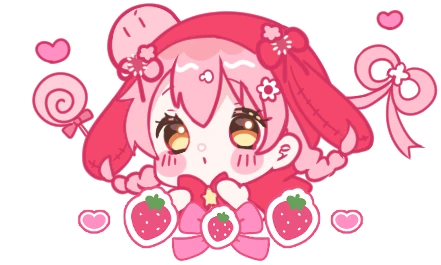
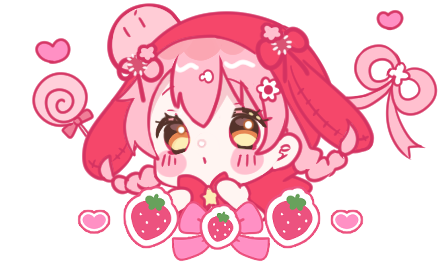
Add files via upload

diff --git a/index.html b/index.html
@@ -11,6 +11,7 @@
     <!-- 優先預載首頁個人頭像，加快圖片顯示速度 -->
     <link rel="preload" as="image" href="loading-strawberry.webp" fetchpriority="high">
     <link rel="preload" as="image" href="loading-frame.webp" fetchpriority="high">
+    <link rel="preload" as="image" href="loading-strawberry-smile.webp">
     <link rel="preload" as="image" href="avatar.webp" fetchpriority="high">
     
     <!-- 更新為最穩定的 Font Awesome 6.6.0 向量圖示庫，確保 X-Twitter 圖示正常顯示 -->
@@ -863,6 +864,14 @@
         /* 載入完成：加載條衝到底、草莓開心跳一下、冒出愛心和草莓 */
         #loader.done .loader-fill { animation: none; width: 100%; }
         #loader.done .loader-berry { animation: berry-yay 0.5s ease-out forwards; }
+        /* 換成笑容版的瞬間，莉比開心地彈一下 */
+        #loader.done .loader-ribi { animation: ribi-happy 0.6s ease-out forwards; }
+        @keyframes ribi-happy {
+            0%   { transform: translateY(0) scale(1, 1); }
+            30%  { transform: translateY(4px) scale(1.05, 0.94); }
+            60%  { transform: translateY(-12px) scale(0.97, 1.04); }
+            100% { transform: translateY(0) scale(1, 1); }
+        }
         @keyframes berry-yay {
             0%   { transform: translateY(0) scale(1); }
             50%  { transform: translateY(-14px) scale(1.25) rotate(12deg); }
@@ -884,6 +893,14 @@
             100% { transform: translate(calc(-50% + var(--dx)), calc(-50% + var(--dy))) scale(1) rotate(var(--rot, 20deg)); opacity: 0; }
         }
 
+        /* 手機版：莉比、相框、文字、加載條整體再內縮一點 */
+        @media (max-width: 868px) {
+            .loader-stage { --rw: min(300px, 64vw); }
+            .loader-text { font-size: 1.35rem; }
+            .loader-bar { width: min(240px, 58vw); height: 20px; }
+            .loader-berry { width: 28px; right: -14px; margin-top: -18px; }
+        }
+
         /* 加載畫面消失後，網頁內容柔柔地浮上來 */
         body.reveal .page-content.active { animation: page-pop 0.8s ease-out; }
         @keyframes page-pop {
@@ -896,7 +913,7 @@
         /* 喜歡「減少動態效果」的使用者：只保留靜態畫面（加載條還是會前進） */
         @media (prefers-reduced-motion: reduce) {
             .loader-deco, .loader-tw, .loader-stage, .loader-ribi, .loader-ribi::before, .loader-text span,
-            .loader-fill-in, .loader-berry, #loader.done .loader-berry, .loader-pop,
+            .loader-fill-in, .loader-berry, #loader.done .loader-berry, #loader.done .loader-ribi, .loader-pop,
             body.reveal .page-content.active { animation: none; }
             .loader-pop { display: none; }
         }
@@ -1807,7 +1824,7 @@
 
         <div class="loader-stage">
             <div class="loader-ribi">
-                <img src="loading-strawberry.webp" alt="莉比" width="441" height="265" fetchpriority="high" decoding="async">
+                <img src="loading-strawberry.webp" alt="莉比" id="loaderRibiImg" width="441" height="265" fetchpriority="high" decoding="async">
             </div>
             <div class="loader-text">
                 <span style="--i:0">L</span><span style="--i:1">o</span><span style="--i:2">a</span><span style="--i:3">d</span><span style="--i:4">i</span><span style="--i:5">n</span><span style="--i:6">g</span>
@@ -2624,6 +2641,10 @@
         (function () {
             const loader = document.getElementById('loader');
             const stage = loader.querySelector('.loader-stage');
+            // 載入完成時換成笑容版莉比（先在背景準備好，換的時候才不會閃一下）
+            const ribiImg = document.getElementById('loaderRibiImg');
+            const smileImg = new Image();
+            smileImg.src = 'loading-strawberry-smile.webp';
             const MIN_SHOW = 1600;   // 至少顯示 1.6 秒，讓大家看到可愛的莉比
             const MAX_WAIT = 6000;   // 網路很慢時，最多等 6 秒就先顯示網頁
             const start = Date.now();
@@ -2655,7 +2676,10 @@
                 if (done) return;
                 done = true;
                 const wait = Math.max(0, MIN_SHOW - (Date.now() - start));
-                setTimeout(() => {
+                // 笑容版準備好才換（最多等 0.5 秒，不會卡住）
+                const ready = smileImg.decode ? smileImg.decode().catch(() => {}) : Promise.resolve();
+                setTimeout(() => Promise.race([ready, new Promise(r => setTimeout(r, 500))]).then(() => {
+                    if (smileImg.complete && smileImg.naturalWidth) ribiImg.src = smileImg.src;   // 笑容版莉比
                     loader.classList.add('done');          // 加載條衝到 100%
                     setTimeout(popBurst, 250);
 
@@ -2671,7 +2695,7 @@
                         loader.remove();
                         document.body.classList.remove('reveal');
                     }, 750 + 850);
-                }, wait);
+                }), wait);
             }
 
             window.addEventListener('load', finish);
